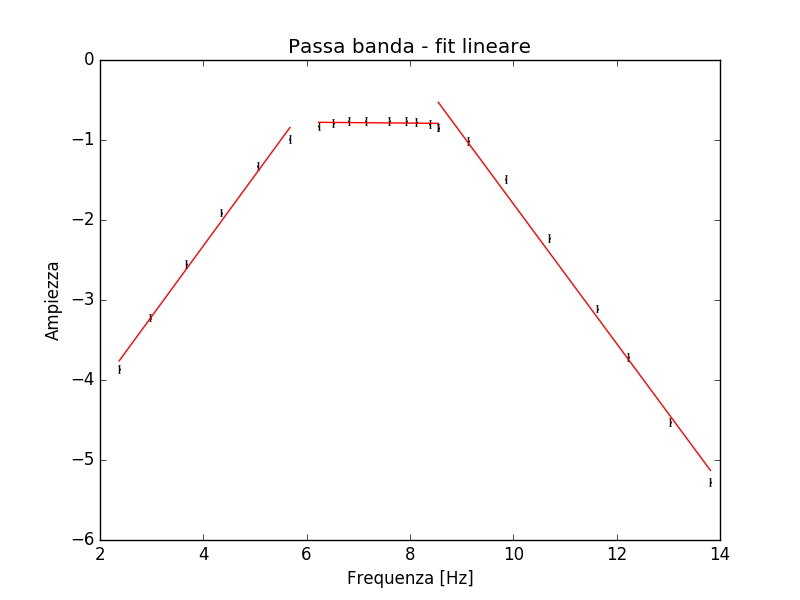
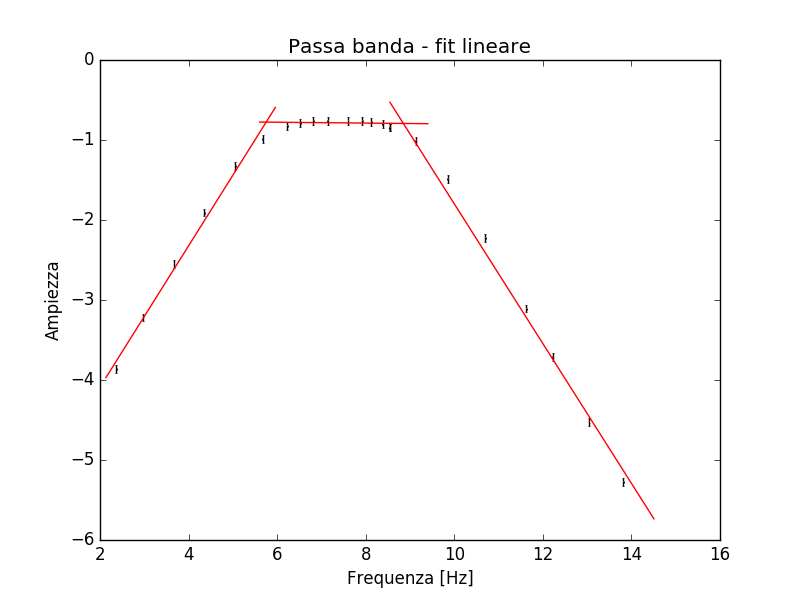
regolazione limiti in analyzer

diff --git a/analyzer.py b/analyzer.py
@@ -648,7 +648,7 @@ def util_format(x, e, pm='+-', percent=False):
 	if not percent or float(sx) == 0:
 		return "%s %s %s" % (sx, pm, se)
 	else:
-		ep = abs(e) / x * 100.0
+		ep = abs(e) / abs(x) * 100.0
 		eps = "%.*g" % (2 if ep < 100.0 else 3, ep)
 		return "%s %s %s (%s %%)" % (sx, pm, se, eps)
 
@@ -784,7 +784,7 @@ def XYfunction(a): #formula per il calcolo della X dalle colonne del file in inp
 	return a[0], a[1]
 
 #Load txt
-def fit(directory, file, units, f, p0, titolo="", Xlab="", Ylab="", XYfun=XYfunction, preplot=False, Xscale="linear",Yscale="linear",scarti=False,table=False,tab=[""], fig="^^"):
+def fit(directory, file, units, f, p0, titolo="", Xlab="", Ylab="", XYfun=XYfunction, preplot=False, Xscale="linear",Yscale="linear", xlimp = array([100.,100.]),scarti=False,table=False,tab=[""], fig="^^"):
 	
 	"""
 	Ho modificato la funzione ma non mi va di modificare l'help
@@ -829,6 +829,8 @@ def fit(directory, file, units, f, p0, titolo="", Xlab="", Ylab="", XYfun=XYfunc
 			cambia la scala dell'asse X nei plot, di default linear
 		Yscale : linear / log, optional
 			cambia la scala dell'asse Y nei plot, di default linear
+		xlimp : array di 2 elementi
+			cambia l'estensione della curva di fit in percentuale, rispetto all'estensione dei punti misurati
 		scarti : boolean, optional
 			stampa e salva il plot degli scarti normalizzati
 		table : boolean, optional
@@ -843,9 +845,6 @@ def fit(directory, file, units, f, p0, titolo="", Xlab="", Ylab="", XYfun=XYfunc
 		Returns
 		-------
 	"""
-
-	if fig=="^^":
-		fig=file
 	
 	columns = loadtxt(directory+"data/"+file+".txt", unpack = True)
 
@@ -867,7 +866,9 @@ def fit(directory, file, units, f, p0, titolo="", Xlab="", Ylab="", XYfun=XYfunc
 	Y=unumpy.nominal_values(Y_err)
 	dX=unumpy.std_devs(X_err)
 	dY=unumpy.std_devs(Y_err)
-	
+
+	if fig=="^^":
+		fig=file
 	
 	if preplot==True :
 		figure(fig+"_3")
@@ -892,10 +893,11 @@ def fit(directory, file, units, f, p0, titolo="", Xlab="", Ylab="", XYfun=XYfunc
 	errorbar(X,Y,dY,dX, fmt=",",ecolor="black",capsize=0.5)
 	xlabel(Xlab)
 	ylabel(Ylab)
+	xlima = xlimp/100
 	if Xscale=="log":
-		l=logspace(log10(min(X)),log10(max(X)),1000)
+		l=logspace(log10(min(X))*xlima[0],log10(max(X)*xlima[1]),1000)
 	else:
-		l=linspace(min(X),max(X),1000)
+		l=linspace(min(X)*xlima[0],max(X)*xlima[1],1000)
 	plot(l,f(l,*par),"red")
 	savefig(directory+"grafici/fit_"+fig+".pdf")
 	savefig(directory+"grafici/fit_"+fig+".png")
@@ -927,7 +929,7 @@ def fit(directory, file, units, f, p0, titolo="", Xlab="", Ylab="", XYfun=XYfunc
 	#Stampo i risultati, il chi e la matrice di cov
 	print("\nFIT RESULT %s\n" % file)
 	for i in range(len(par)):
-		print("p%s = %s" % (i,xep(par[i],sigma[i])))
+		print("p%s = %s" % (i,xep(par[i],sigma[i],",")))
 	
 	print("\nchi / ndof =",chi,"/",len(X)-len(par))
 	if len(par)>1 :
@@ -936,7 +938,7 @@ def fit(directory, file, units, f, p0, titolo="", Xlab="", Ylab="", XYfun=XYfunc
 	#Salvo la tabella formattata latex
 	if table==True:
 		with open(directory+"tabelle/tab_"+file+".txt", "w") as text_file:
-			text_file.write("begin{tabular}{c")
+			text_file.write("\\begin{tabular}{c")
 			for z in range (1,len(columns)):
 				text_file.write("|c")
 			text_file.write("} \n")

diff --git a/Esercitazione2/Esercitazione2.py b/Esercitazione2/Esercitazione2.py
@@ -171,9 +171,11 @@ titolo="Passa banda - fit lineare"
 Xlab="Frequenza [Hz]"
 Ylab="Ampiezza"
 
+xlimp1=array([90.,105.])
+
 tab=["Frequenza [Hz]","Tensione in ingresso [V]","Tensione in uscita"]
 
-fit(dir,file,unit,f,p0,titolo,Xlab,Ylab,XYfun,scarti=True,fig=figura)
+fit(dir,file,unit,f,p0,titolo,Xlab,Ylab,XYfun,scarti=True,fig=figura,xlimp=xlimp1)
 
 ###########################################################################
 
@@ -196,9 +198,11 @@ titolo="Passa banda - fit lineare"
 Xlab="Frequenza [Hz]"
 Ylab="Ampiezza"
 
+xlimp2=array([90.,110.])
+
 tab=["Frequenza [Hz]","Tensione in ingresso [V]","Tensione in uscita"]
 
-fit(dir,file,unit,f,p0,titolo,Xlab,Ylab,XYfun,scarti=True,fig=figura)
+fit(dir,file,unit,f,p0,titolo,Xlab,Ylab,XYfun,scarti=True,fig=figura,xlimp=xlimp2)
 
 ###########################################################################
 
@@ -221,6 +225,8 @@ titolo="Passa banda - fit lineare"
 Xlab="Frequenza [Hz]"
 Ylab="Ampiezza"
 
+xlimp3=array([100.,105.])
+
 tab=["Frequenza [Hz]","Tensione in ingresso [V]","Tensione in uscita"]
 
-fit(dir,file,unit,f,p0,titolo,Xlab,Ylab,XYfun,scarti=True,fig=figura)
+fit(dir,file,unit,f,p0,titolo,Xlab,Ylab,XYfun,scarti=True,fig=figura, xlimp=xlimp3)
